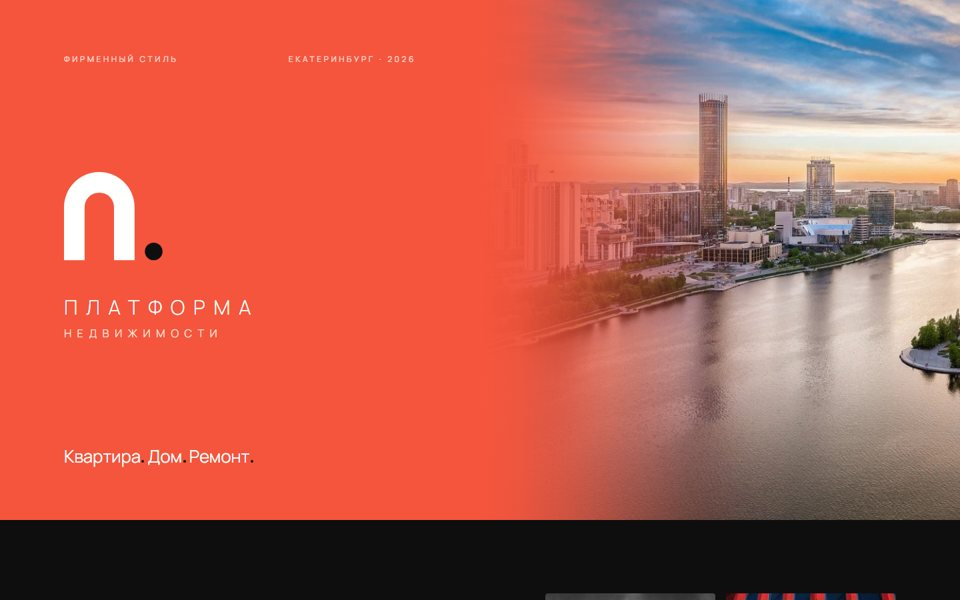
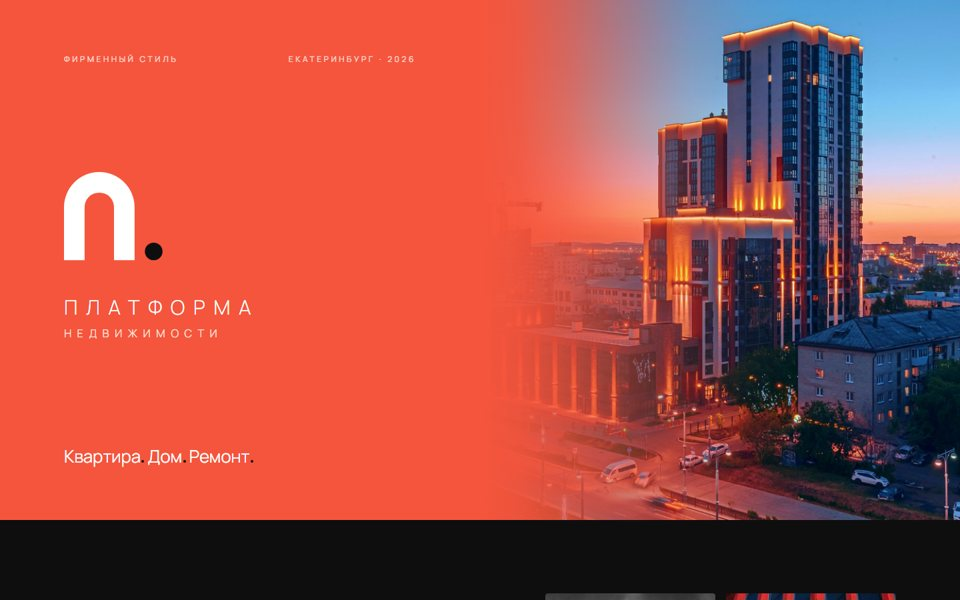
Обложка презентации: Екатеринбург в сумерках

diff --git a/07_Презентация/index.html b/07_Презентация/index.html
@@ -19,7 +19,7 @@ p.lead{font-size:20px;line-height:1.55;max-width:620px;color:inherit;opacity:.85
 .cover{height:780px;background:#F5553C;display:grid;grid-template-columns:1fr 1fr}
 .cover .l svg{width:150px;height:auto}
 .cover .l{padding:80px 96px;display:flex;flex-direction:column;justify-content:space-between;color:#fff}
-.cover .r{background:url(photo/ekb_city.jpg) 12% 50%/cover;position:relative}
+.cover .r{background:url(photo/ekb_dusk.jpg) 78% 50%/cover;position:relative}
 .cover .r::after{content:'';position:absolute;inset:0;background:linear-gradient(90deg,#F5553C 0%,#F5553Cf2 8%,#F5553Cc7 18%,#F5553C80 30%,#F5553C33 44%,#F5553C0d 56%,#F5553C00 66%)}
 .cover .meta{display:flex;justify-content:space-between;font-size:12px;letter-spacing:.3em;text-transform:uppercase;opacity:.8}
 /* about */
@@ -127,7 +127,7 @@ p.lead{font-size:20px;line-height:1.55;max-width:620px;color:inherit;opacity:.85
     <div><svg width="150" height="132.4" viewBox="0 0 68 60" role="img" aria-label="Знак «П.»" style="overflow:visible;display:block"><path d="M0 60 V24 A24 24 0 0 1 48 24 V60 H34 V24 A10 10 0 0 0 14 24 V60 Z" fill="#FFFFFF"/><circle cx="61" cy="54" r="6" fill="#0E0E0F"/></svg><div style="margin-top:56px"><div style="display:flex;flex-direction:column;align-items:flex-start"><div style="font:300 30px/1 Manrope,sans-serif;letter-spacing:.42em;margin-right:-.42em;color:#FFFFFF;white-space:nowrap">ПЛАТФОРМА</div><div style="font:400 16.5px/1 Manrope,sans-serif;letter-spacing:.5em;margin-right:-.5em;color:#FFE1DB;white-space:nowrap;margin-top:16px">НЕДВИЖИМОСТИ</div></div></div></div>
     <div style="font:400 26px/1.2 Manrope;letter-spacing:-.01em"><em class="nw">Квартира<i class="o n"></i></em> <em class="nw">Дом<i class="o n"></i></em> <em class="nw">Ремонт<i class="o n"></i></em></div>
   </div>
-  <div class="r" role="img" aria-label="Екатеринбург на закате: Городской пруд и Исеть-башня"></div>
+  <div class="r" role="img" aria-label="Екатеринбург в сумерках: новые жилые дома и стройка"></div>
 </section>
 
 <section class="dark"><div class="in">

diff --git a/tools/p_present.py b/tools/p_present.py
@@ -203,7 +203,7 @@ p.lead{{font-size:20px;line-height:1.55;max-width:620px;color:inherit;opacity:.8
 .cover{{height:780px;background:{RED};display:grid;grid-template-columns:1fr 1fr}}
 .cover .l svg{{width:150px;height:auto}}
 .cover .l{{padding:80px 96px;display:flex;flex-direction:column;justify-content:space-between;color:#fff}}
-.cover .r{{background:url(photo/ekb_city.jpg) 12% 50%/cover;position:relative}}
+.cover .r{{background:url(photo/ekb_dusk.jpg) 78% 50%/cover;position:relative}}
 .cover .r::after{{content:'';position:absolute;inset:0;background:linear-gradient(90deg,{RED} 0%,#F5553Cf2 8%,#F5553Cc7 18%,#F5553C80 30%,#F5553C33 44%,#F5553C0d 56%,#F5553C00 66%)}}
 .cover .meta{{display:flex;justify-content:space-between;font-size:12px;letter-spacing:.3em;text-transform:uppercase;opacity:.8}}
 /* about */
@@ -311,7 +311,7 @@ p.lead{{font-size:20px;line-height:1.55;max-width:620px;color:inherit;opacity:.8
     <div>{mark(150, WHITE, NIGHT)}<div style="margin-top:56px">{word(WHITE, 30, "#FFE1DB")}</div></div>
     <div style="font:400 26px/1.2 Manrope;letter-spacing:-.01em">Квартира<i class="o n"></i> Дом<i class="o n"></i> Ремонт<i class="o n"></i></div>
   </div>
-  <div class="r" role="img" aria-label="Екатеринбург на закате: Городской пруд и Исеть-башня"></div>
+  <div class="r" role="img" aria-label="Екатеринбург в сумерках: новые жилые дома и стройка"></div>
 </section>
 
 <section class="dark"><div class="in">
